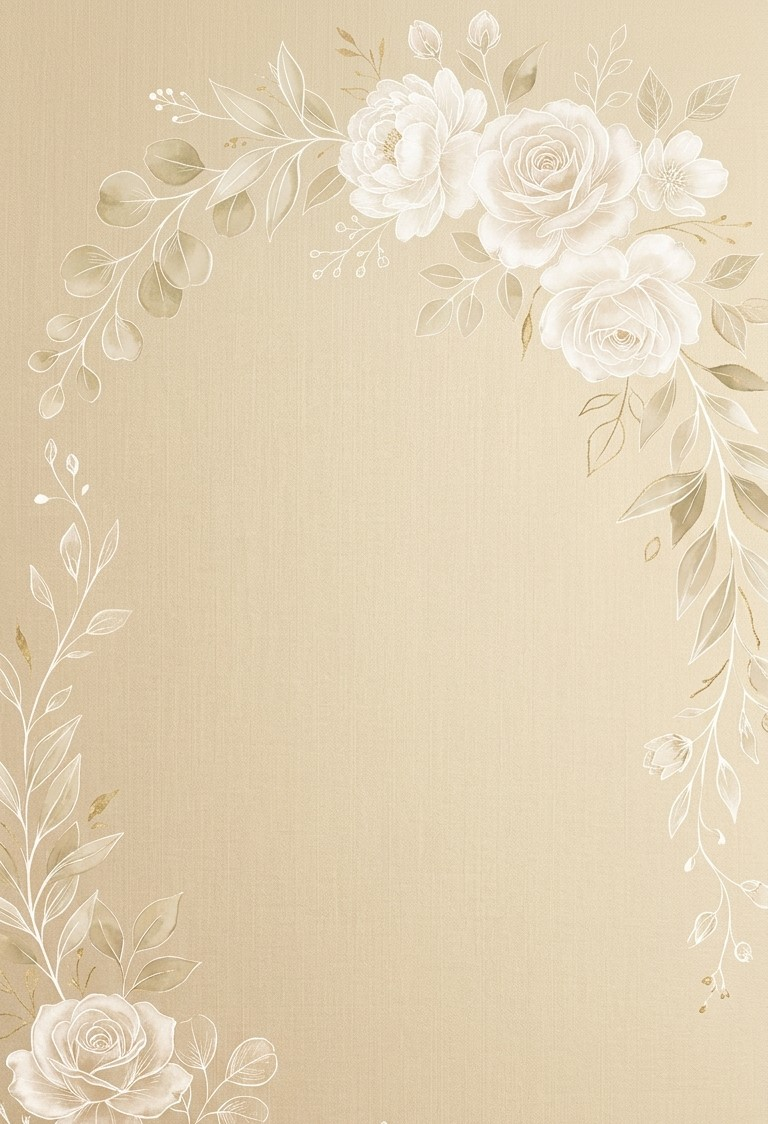
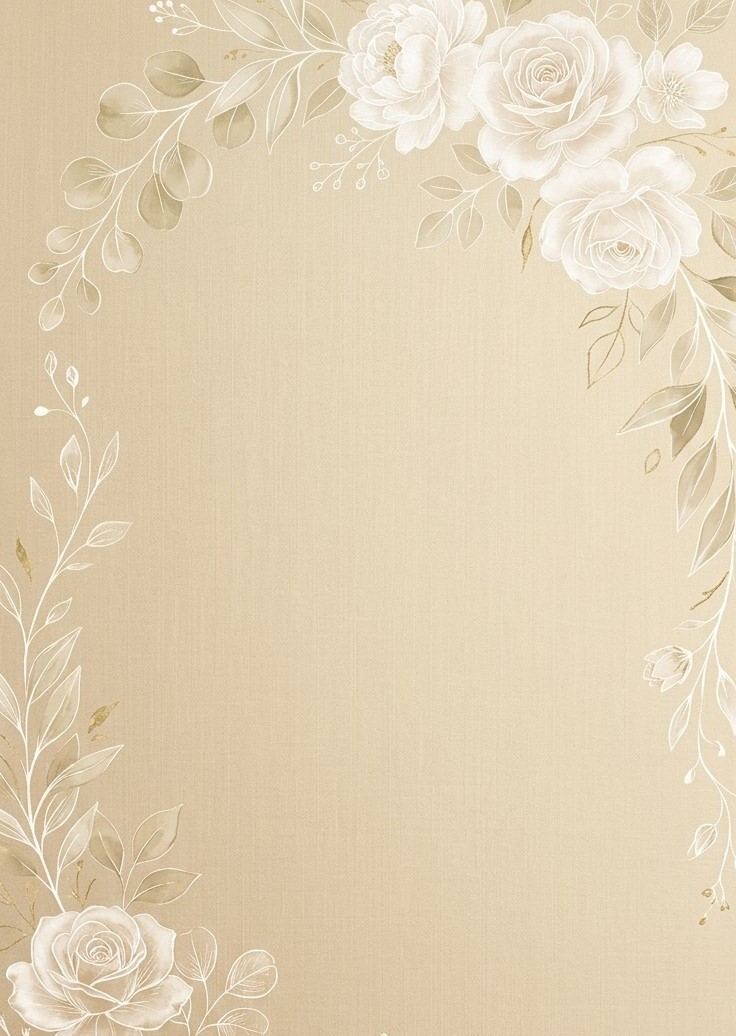
first commitnn

diff --git a/index.html b/index.html
@@ -1593,7 +1593,7 @@
 
 
     <div class="seccion-padres reveal"
-        style="padding: 60px 30px; text-align: center; background-image: url('Gemini_Generated_Image_k8aqm6k8aqm6k8aq.jpg'); background-size: cover; background-position: center; font-family: 'Cinzel', serif;">
+        style="padding: 60px 30px; text-align: center; background-image: url('Gemini_Generated_Image_n0he47n0he47n0he.jpg'); background-size: cover; background-position: center; font-family: 'Cinzel', serif;">
 
         <div style="margin-bottom: 40px;">
             <p
@@ -1999,11 +1999,11 @@
 
 
 
-            <div class="confirmacion-texto">
+            <div class="confirmacion-texto" style="color: #5d4936;" >
 
                 <h2>Confirmación de asistencia</h2>
 
-                <p style="color: #ffffff; font-weight: 600; margin: 6px 0;" style="text-align: justify;">Para nosotros
+                <p style="color: #5d4936; font-weight: 600; margin: 6px 0;" style="text-align: justify;">Para nosotros
                     es indispensable contar con tu valiosa presencia. Agradecemos confirmar tu asistencia hasta el
                     viernes 16 de octubre. <br> <br></p>
                 <br>
@@ -2019,10 +2019,13 @@
                 </div>
 
             </div>
-
+ 
         </div>
 
-      
+        <section class="foto-inicio">
+        <img src="WhatsApp Image 2026-10-03 at 17.51.25.jpeg" alt="Joe y Elisa" class="foto-entrada-celular">
+
+    </section>
 
         <div class="seccion-final reveal"
             style="padding: 50px 20px; background-color: #ffffff; text-align: center; background-image:url('fondo1001.jpg')">
